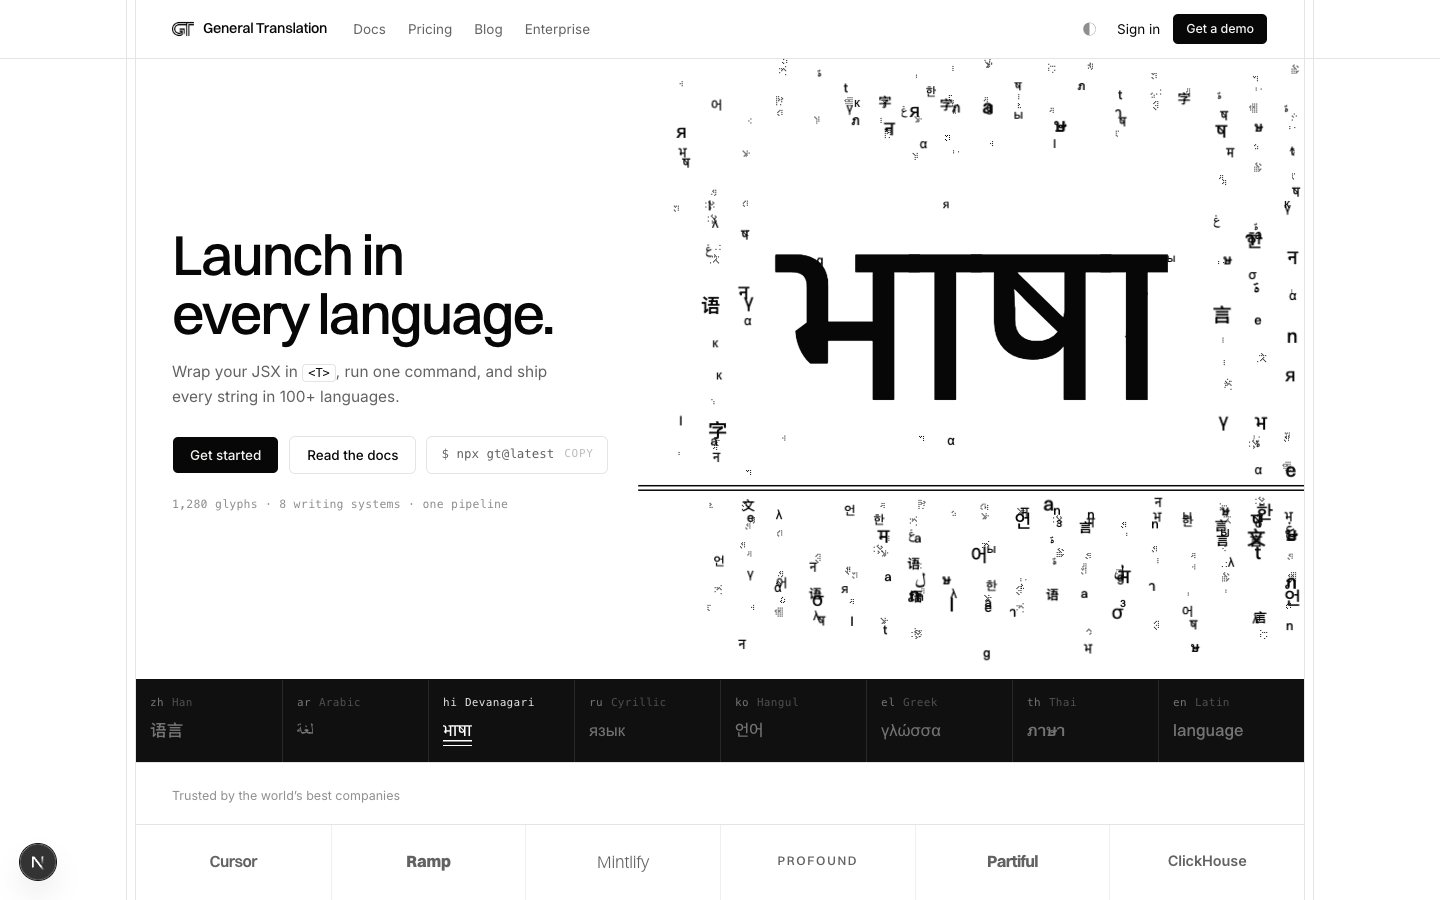
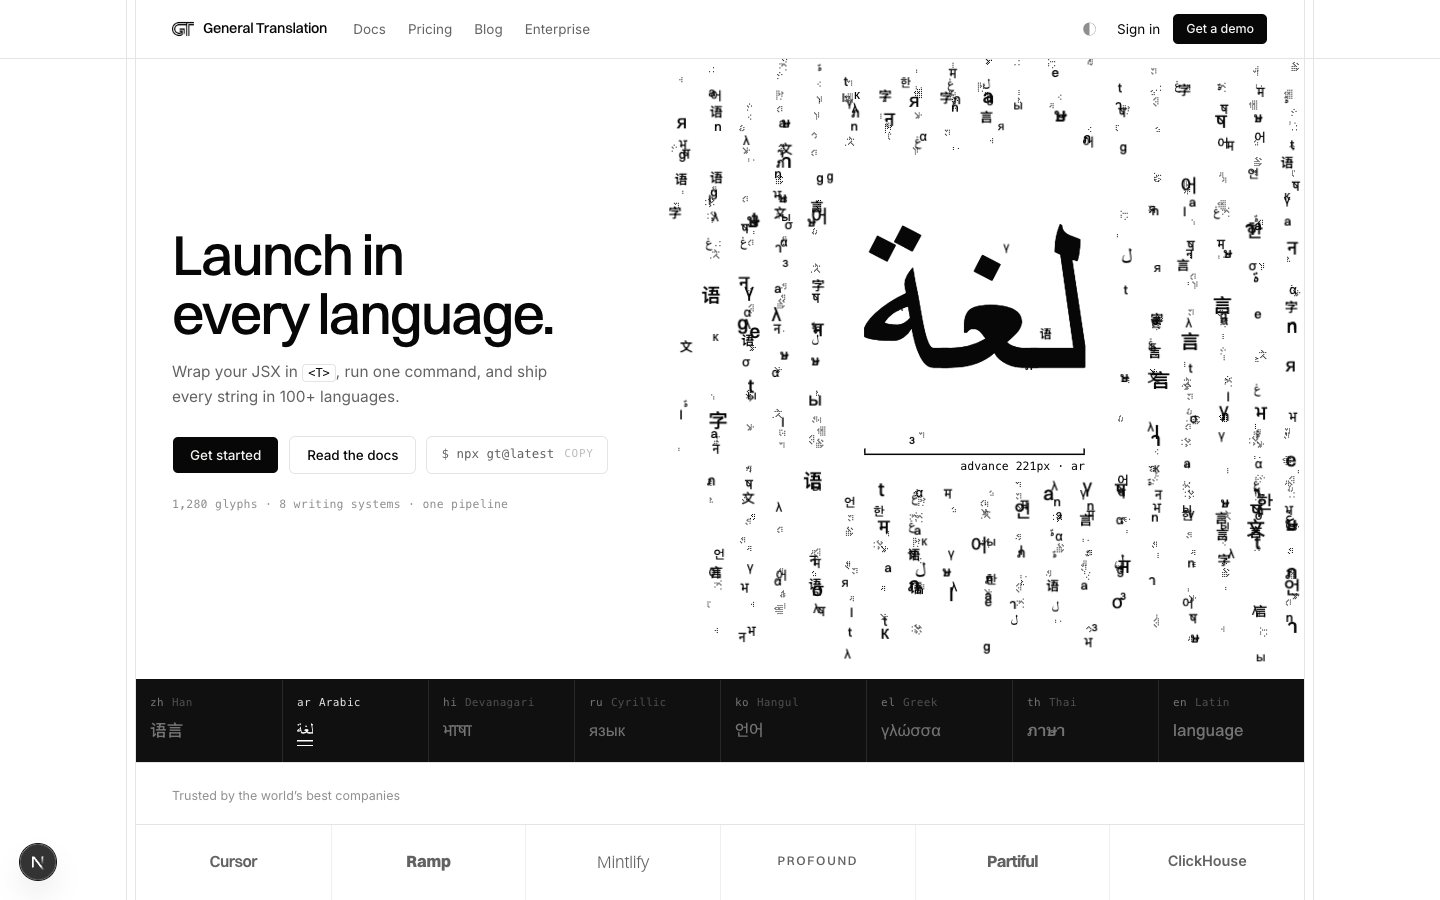
feat(glyph-field): longer holds, caliper fade lifecycle, drop the threads
Words hold 2.6s; the caliper fades in after the print sweep and back
out as the peel begins; the doubled threads crossing the rain are gone.

diff --git a/src/lib/glyph-field.ts b/src/lib/glyph-field.ts
@@ -8,9 +8,8 @@
  * deficit is called out of the visible rain (keeping its rain material
  * until it lands and inks up), and any surplus dust flies home to its own
  * slot in the fall. Nothing spawns mid-air and nothing vanishes mid-flight.
- * The two brand threads run under the word as the rail the composition
- * stands on, and a caliper bracket prints the word's measured advance
- * while it holds.
+ * A caliper bracket prints the word's measured advance while it holds,
+ * fading in after the print front and back out as the peel begins.
  *
  * Craft constraints, in order:
  * - One preallocated pool. Every per-particle number lives in a typed array
@@ -109,19 +108,19 @@ const INK = '#070707';
 /** The rain's column pitch: the field is set, not scattered. */
 const COL_PITCH = 34;
 
-/* The loop, in seconds: print, hold, peel, fly. The field is mostly IN
-   MOTION by design — each formed word rests for about a second, then
-   dissolves, spreads, reorganizes and forms the next, one continuous
-   movement. */
-const HOLD = 1.2;
+/* The loop, in seconds: print, hold, peel, fly. Each formed word rests
+   long enough to be read — the caliper fades in, stands, and fades back
+   out — then the word dissolves, spreads, reorganizes and forms the next,
+   one continuous movement. */
+const HOLD = 2.6;
 const MORPH = 2.4;
 const CYCLE = HOLD + MORPH;
 /**
- * The first word starts dissolving after roughly a second — the field
- * should be alive almost immediately. (Reduced motion still renders the
- * printed word as a still.)
+ * The first word lingers like every other; the boot instant lands mid-hold
+ * with the word already printed and the caliper already in. (Reduced motion
+ * still renders the printed word as a still.)
  */
-const FIRST_HOLD = 1.2;
+const FIRST_HOLD = 2.6;
 const FIRST_CYCLE = FIRST_HOLD + MORPH;
 /** The print front's sweep at the start of a hold. */
 const PRINT = 0.5;
@@ -410,6 +409,8 @@ export function createGlyphField(options: GlyphFieldOptions): GlyphFieldHandle |
   let prevFont = '';
   let prevPx = 0;
   let prevRtl = false;
+  let prevLabel = '';
+  let prevLabelW = 0;
 
   function scan(step: number, sw: number, sh: number, cap: number): number {
     if (!sampleCtx) return 0;
@@ -613,9 +614,6 @@ export function createGlyphField(options: GlyphFieldOptions): GlyphFieldHandle |
     if (k <= 0) return 0;
     k *= 1 - smoothstep(botA, botB, y);
     if (k <= 0) return 0;
-    /* The doubled rail is the brand's thread — rain never strikes it. */
-    k *= smoothstep(10, 22, Math.abs(y - (railY + 3)));
-    if (k <= 0) return 0;
     if (ptCount > 0 && nextGate > 0) {
       const boxTop = baselineY - formedPx * 1.08;
       const dx = Math.max(formedLeft - 22 - x, x - (formedRight + 22), 0);
@@ -688,6 +686,8 @@ export function createGlyphField(options: GlyphFieldOptions): GlyphFieldHandle |
         prevFont = formedFont;
         prevPx = formedPx;
         prevRtl = formedRtl;
+        prevLabel = formedLabel;
+        prevLabelW = formedLabelW;
         fx.set(lastX);
         fy.set(lastY);
         inPrev.set(inNext);
@@ -717,14 +717,6 @@ export function createGlyphField(options: GlyphFieldOptions): GlyphFieldHandle |
     }
 
     const mp = morph < 0 ? 0 : p - holdDur; // seconds into the morph
-
-    /* The two threads: the rail the word stands on, at brand gauge and full
-       ink. They enter from under the type column and run out the edge. */
-    const railX = narrow ? 0 : fadeB;
-    ctx.fillStyle = ink;
-    ctx.globalAlpha = 1;
-    ctx.fillRect(railX, railY, w - railX, 1.5);
-    ctx.fillRect(railX, railY + 4.5, w - railX, 1.5);
 
     /* The print / peel fronts, in x. */
     const printU = morph < 0 ? clamp01(p / PRINT) : 1;
@@ -905,22 +897,30 @@ export function createGlyphField(options: GlyphFieldOptions): GlyphFieldHandle |
     }
 
     /* The caliper: the printed word's measured advance — regular-weight
-       dimension line, 5px end ticks, mono value in ink. */
-    if (morph < 0 && ptCount > 0) {
-      const a = Math.min(1, Math.max(0, (p - PRINT - 0.1) / 0.4));
-      if (a > 0) {
-        const by = Math.min(railY - 9, baselineY + maxFont * 0.24);
-        ctx.globalAlpha = a;
-        ctx.fillStyle = ink;
-        ctx.fillRect(formedLeft, by, formedRight - formedLeft, 1.5);
-        ctx.fillRect(formedLeft, by - 5, 1.5, 5);
-        ctx.fillRect(formedRight - 1.5, by - 5, 1.5, 5);
-        /* The value stands on cleared paper — rain never strikes through it. */
-        ctx.clearRect(formedRight - formedLabelW - 8, by + 4, formedLabelW + 12, 17);
-        ctx.font = `500 11.5px ${mono}`;
-        ctx.textAlign = 'right';
-        ctx.fillText(formedLabel, formedRight, by + 16);
-      }
+       dimension line, 5px end ticks, mono value in ink. It fades in once
+       the print front has swept, stands while the word holds, and fades
+       back out over the outgoing word as the morph begins. */
+    const calIn = morph < 0 && ptCount > 0 ? clamp01((p - PRINT - 0.1) / 0.45) : 0;
+    const calOut = morph >= 0 && prevWord ? 1 - clamp01(mp / 0.45) : 0;
+    const calA = Math.max(calIn, calOut);
+    if (calA > 0) {
+      const cl = calIn > 0 ? formedLeft : prevLeft;
+      const cr = calIn > 0 ? formedRight : prevRight;
+      const label = calIn > 0 ? formedLabel : prevLabel;
+      const labelW = calIn > 0 ? formedLabelW : prevLabelW;
+      const by = Math.min(railY - 9, baselineY + maxFont * 0.24);
+      ctx.globalAlpha = calA;
+      ctx.fillStyle = ink;
+      ctx.fillRect(cl, by, cr - cl, 1.5);
+      ctx.fillRect(cl, by - 5, 1.5, 5);
+      ctx.fillRect(cr - 1.5, by - 5, 1.5, 5);
+      /* The value stands on cleared paper — rain never strikes through it.
+         (clearRect ignores alpha, so only punch the hole at full ink;
+         mid-fade the band is already rain-free via the gated clearing.) */
+      if (calA >= 1) ctx.clearRect(cr - labelW - 8, by + 4, labelW + 12, 17);
+      ctx.font = `500 11.5px ${mono}`;
+      ctx.textAlign = 'right';
+      ctx.fillText(label, cr, by + 16);
     }
 
     ctx.globalAlpha = 1;
